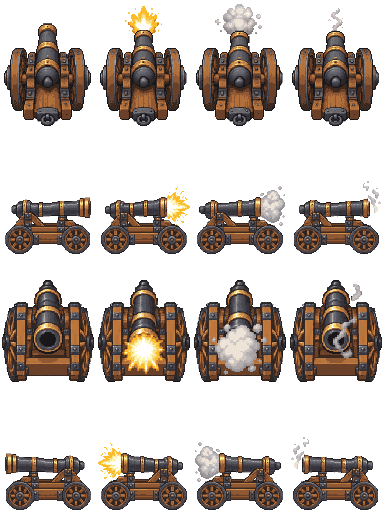
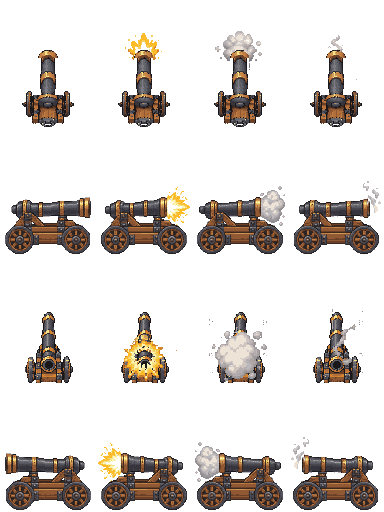
Cannon north/south redrawn at the side view's scale; collision follows
The 21:44 fix (ae85c50) fitted the north/south box to art that was wrong:
the end-on rows were drawn about 2.2x larger than east/west (62 px wheels
and a 20 px barrel against 28 px wheels and a 12-14 px barrel), so the
player saw two different machines. Codex redrew rows 0 and 2 against the
east idle frame as the canonical scale (briefs in build/cannon_scale_*):
wheels now 26-27 px, barrel 13-14 px, idle bbox north x 22..74 y 50..126,
south x 25..73 y 56..126, ground line y 126 as on east/west. Stray debris
pixels beside the north firing frames removed; 38 colours, alpha 0/255.
Rows 1 and 3 are byte-identical to before.

FULL_COLLISION_NS is re-measured against the new rows: (22, 24, 52, 72)
instead of (5, 16, 86, 80); the strips either side of the narrow machine
are walkable again. Built against 1.3.3: buildModJar exit 0 (not deployed).
Rendered before/after and looked at it. Not seen in game.

Changed region(s): [[0.0, 0.5312, 1.0, 0.75], [0.0, 0.0, 1.0, 0.25]]

diff --git a/src/main/java/stairwaytoheaven/objects/VeteranCatapultObject.java b/src/main/java/stairwaytoheaven/objects/VeteranCatapultObject.java
@@ -61,21 +61,21 @@ public class VeteranCatapultObject extends GameObject {
      * old catapult numbers (x 15..79) belonged to a narrower machine.
      *
      * <p>Idle extents, footprint coordinates (cell y minus the 32 px overhang):
-     * north x 4..91 y -9..94, east x 5..91 y 37..94, south x 2..94 y -8..94,
-     * west x 5..91 y 37..94. North and south are a different machine seen
-     * end-on: wheels and carriage start at y=16, only the barrel (x 38..57)
-     * rises above that.
+     * east/west x 5..91 y 37..94, north x 22..74 y 18..94, south x 25..73
+     * y 24..94. All four rows share one scale — 28 px wheels, 12-14 px barrel.
+     * Until 2026-09-25 the north/south rows were drawn about 2.2x larger
+     * (62 px wheels filling x 4..91), which looked like a different machine;
+     * they were redrawn at the side view's scale, so end-on the cannon is
+     * narrow and long, as a cannon is.
      *
      * <p>So the box follows the placement rotation: {@link #getCollision}
      * gets it, and {@code placeObject} hands the master's rotation to all
-     * nine pieces. Both boxes keep x 5..91, the width the cannon has in every
-     * rotation. East/west ({@link #FULL_COLLISION}) leave the top tile row
+     * nine pieces. East/west ({@link #FULL_COLLISION}) leave the top tile row
      * open — nothing is drawn above y=37, and an invisible wall in front of
      * visible floor reads worse than a barrel the player can walk under.
-     * North/south ({@link #FULL_COLLISION_NS}) start at y=16, where the
-     * wheels do; the barrel tip above stays walk-under. Until 2026-09-25 both
-     * used the east/west box, and the player walked into the north/south
-     * wheels. Vanilla insets the same way ({@code BlacksmithStatueObject}
+     * North/south ({@link #FULL_COLLISION_NS}) cover the narrow machine,
+     * barrel included, x 22..74 from y=24; the free strips either side are
+     * walkable. Vanilla insets the same way ({@code BlacksmithStatueObject}
      * blocks 80x54 of its 96x64).
      *
      * <p>The collision follows the placement rotation, not the aim row the
@@ -85,7 +85,7 @@ public class VeteranCatapultObject extends GameObject {
      * box sets them, so the top row counts as open ground for regions.
      */
     private static final Rectangle FULL_COLLISION = new Rectangle(5, 32, 86, 64);
-    private static final Rectangle FULL_COLLISION_NS = new Rectangle(5, 16, 86, 80);
+    private static final Rectangle FULL_COLLISION_NS = new Rectangle(22, 24, 52, 72);
 
     /**
      * This piece's share of a full box, in its own tile's
@@ -93,7 +93,8 @@ public class VeteranCatapultObject extends GameObject {
      * east/west box the three top-row pieces intersect at zero height, so
      * they keep a degenerate rectangle, {@code GameObject} leaves their
      * {@code isSolid} false and the bare top row stays walkable; the six
-     * pieces below block. Against the north/south box they block y 16..32.
+     * pieces below block. Against the north/south box the middle top piece
+     * blocks y 24..32 and the corner columns only a sliver.
      */
     private static Rectangle pieceCollision(Rectangle full, int multiX, int multiY) {
         Rectangle piece = full.intersection(new Rectangle(multiX * 32, multiY * 32, 32, 32));
